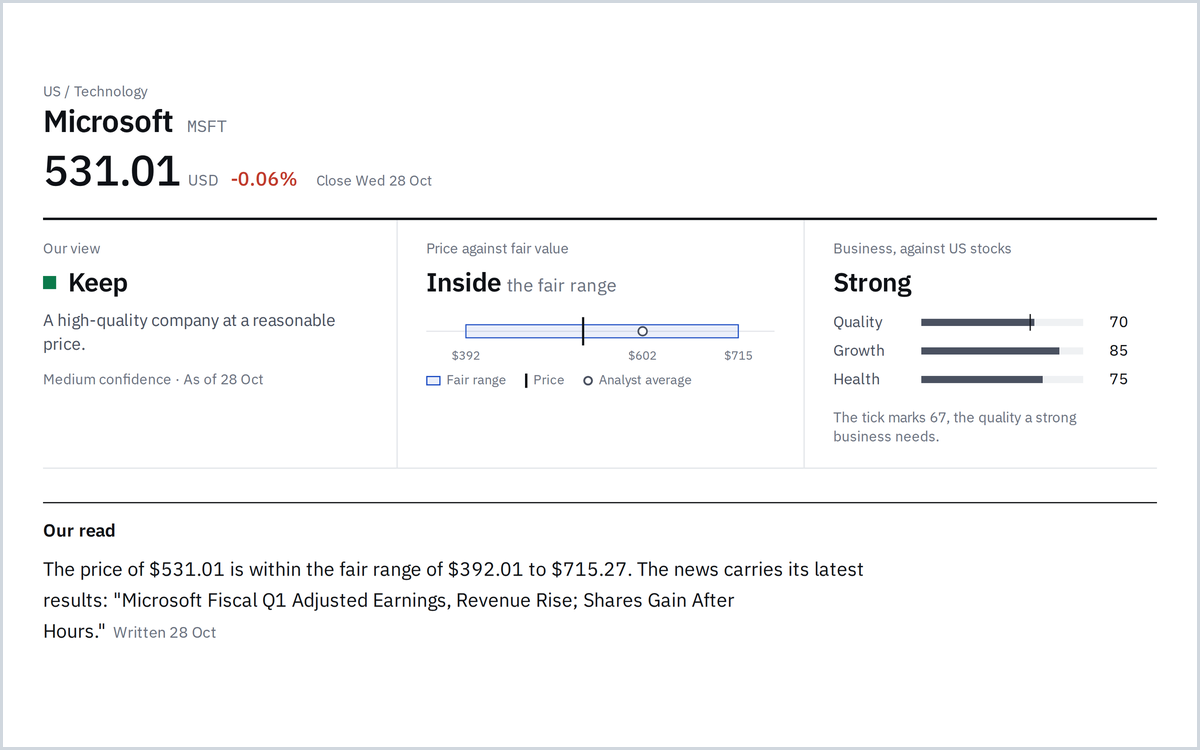
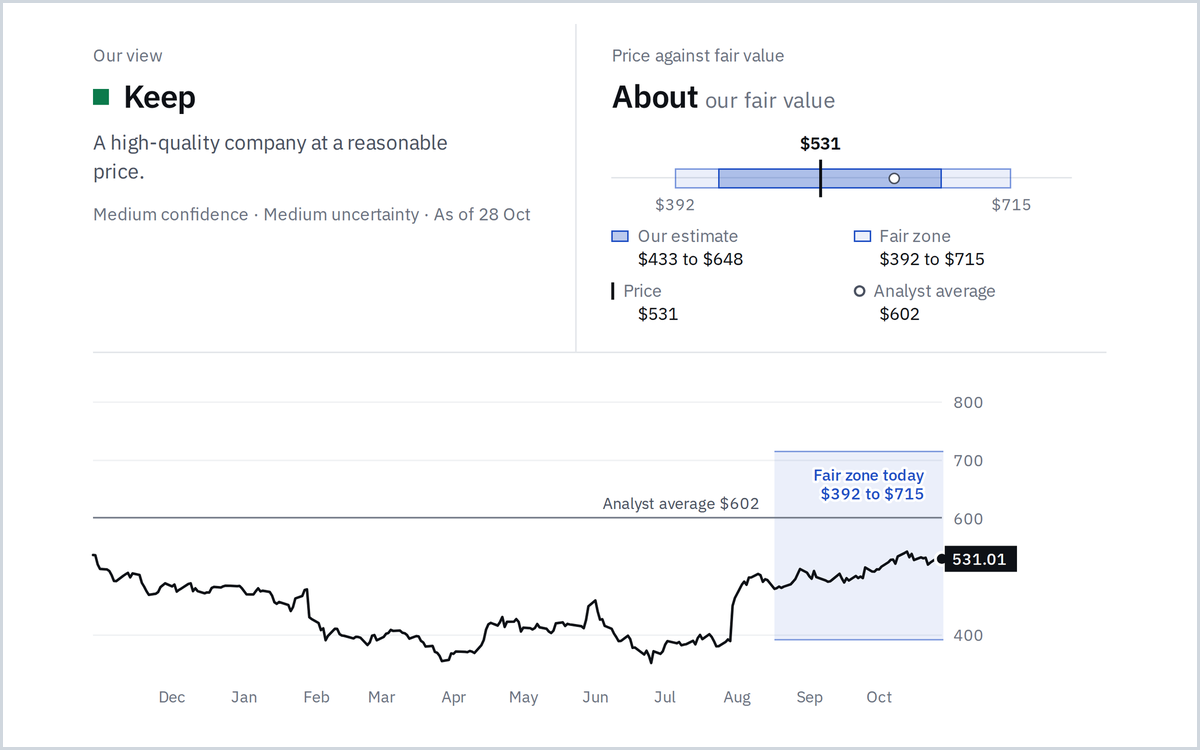
README: Holdbrief's new product shot and How it works link (#25)

diff --git a/README.md b/README.md
@@ -32,10 +32,10 @@ I'm a software engineer at [Purgo AI](https://www.purgo.ai/) in the San Francisc
 
 <table>
   <tr>
-    <td width="44%" valign="top"><a href="https://holdbrief.com"><img src="images/holdbrief.png" alt="Holdbrief's sample brief for one stock: its stance, fair-value range, scores and a short written read."></a></td>
+    <td width="44%" valign="top"><a href="https://holdbrief.com"><img src="images/holdbrief.png" alt="Holdbrief's view of Microsoft: Keep, the price inside its fair zone, and a year of prices with today's fair zone shaded."></a></td>
     <td valign="top"><b><a href="https://holdbrief.com">Holdbrief</a></b><br>
-    A daily brief on the stocks you follow, for US and Indian markets. Fixed scoring methods set each stance, and a checker rejects any sentence Claude writes that doesn't cite its facts.<br>
-    <a href="https://holdbrief.com/sample">Sample brief</a> · Source private</td>
+    A daily brief on the stocks you follow, for US and Indian markets. It ranks each company against its market's peers, values the price three ways and sets the stance by fixed rules; a checker rejects any sentence Claude writes that doesn't cite its facts.<br>
+    <a href="https://holdbrief.com/how-it-works">How it works</a> · <a href="https://holdbrief.com/sample">Sample brief</a> · Source private</td>
   </tr>
 </table>
 
